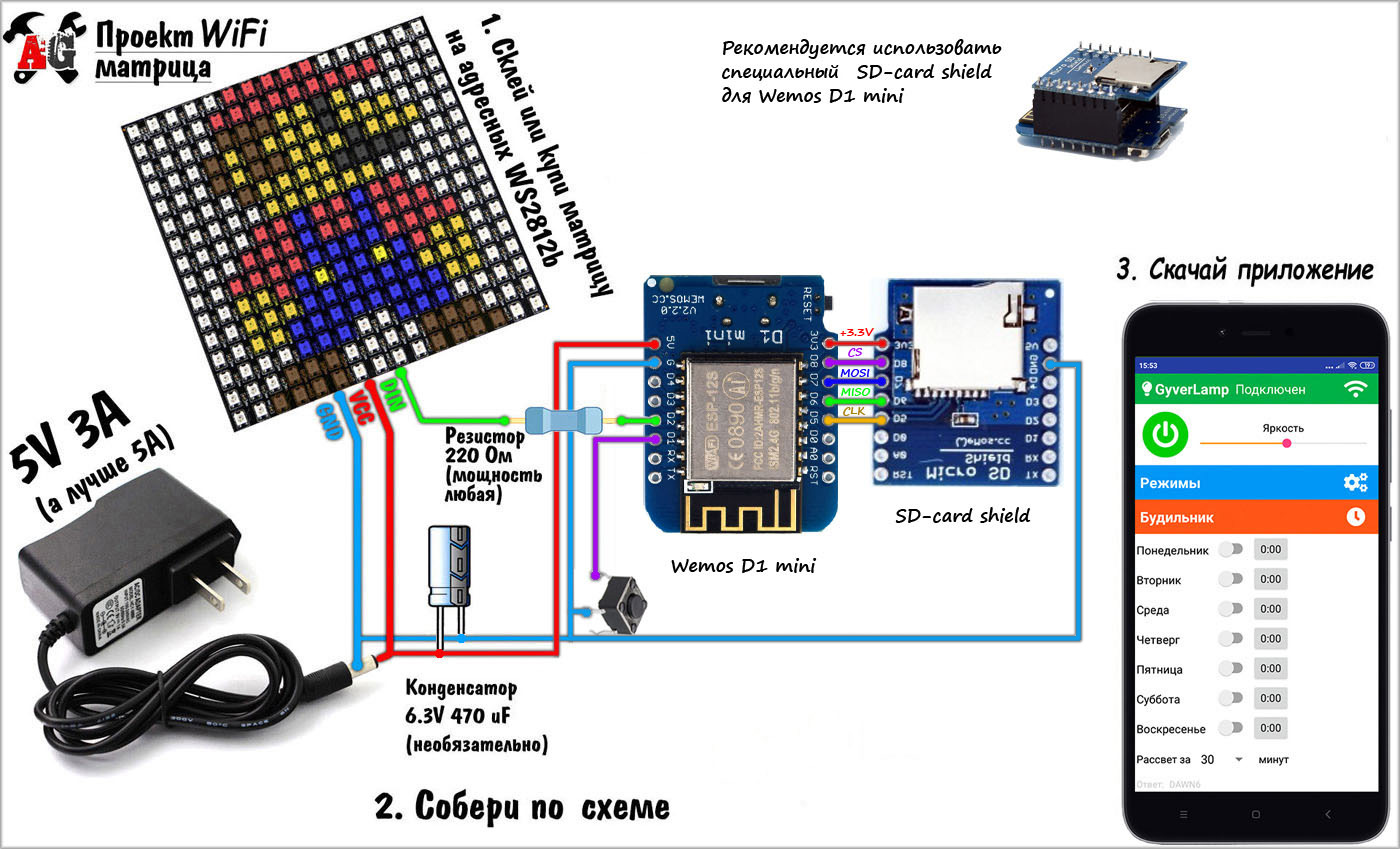
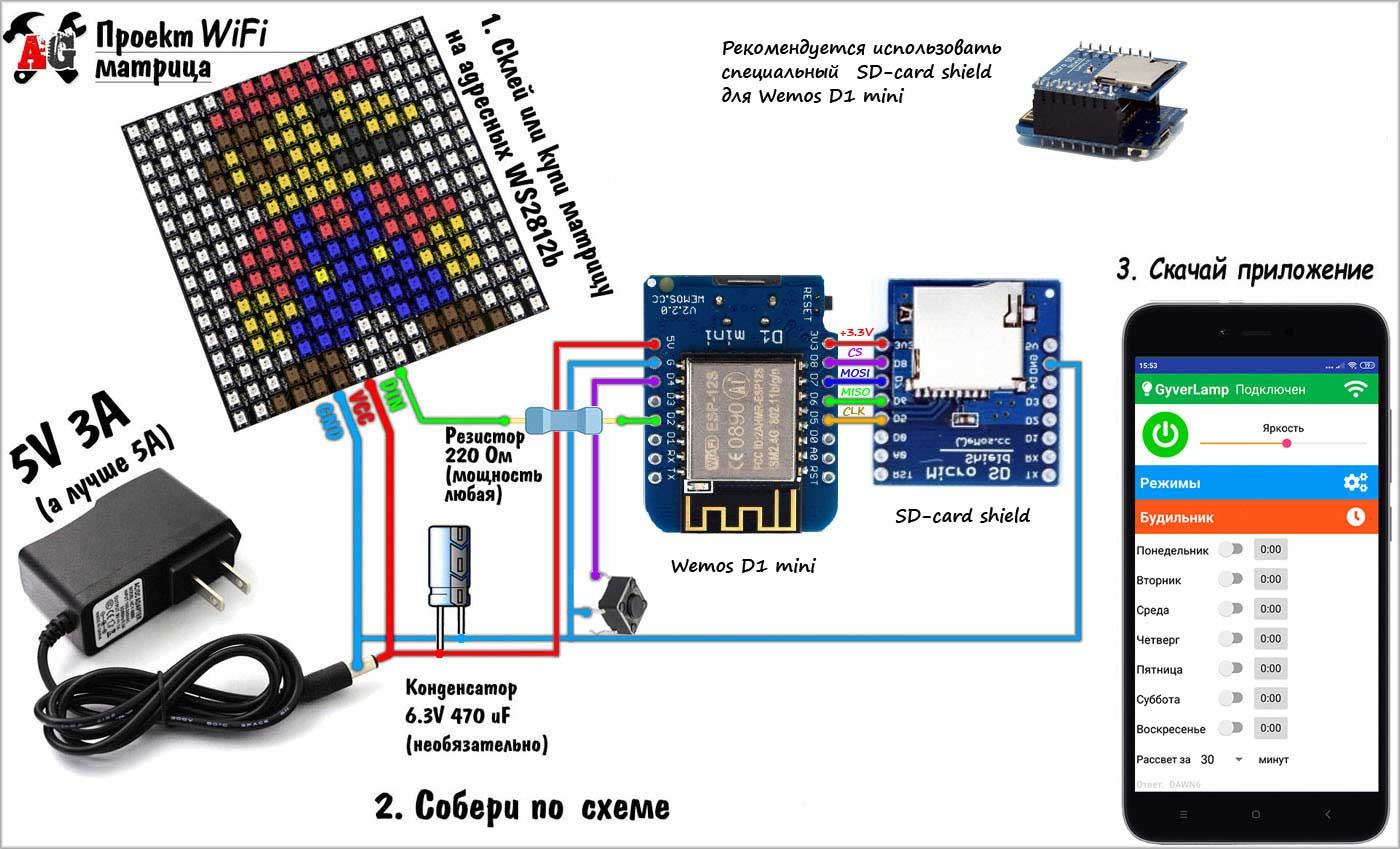
Крорректировка схем

diff --git a/README.md b/README.md
@@ -156,6 +156,8 @@
 ![SCHEME](https://github.com/vvip-68/GyverPanelWiFi/blob/master/schemes/scheme_b.jpg)
 ### С SD картой
 ![SCHEME](https://github.com/vvip-68/GyverPanelWiFi/blob/master/schemes/scheme_c.jpg)
+### С корректировкой питания и отключением матрицы
+![SCHEME](https://github.com/vvip-68/GyverPanelWiFi/blob/master/schemes/scheme_e.jpg)
 ### С корректировкой питания
 ![SCHEME](https://github.com/vvip-68/GyverPanelWiFi/blob/master/schemes/scheme_d.jpg)
 
